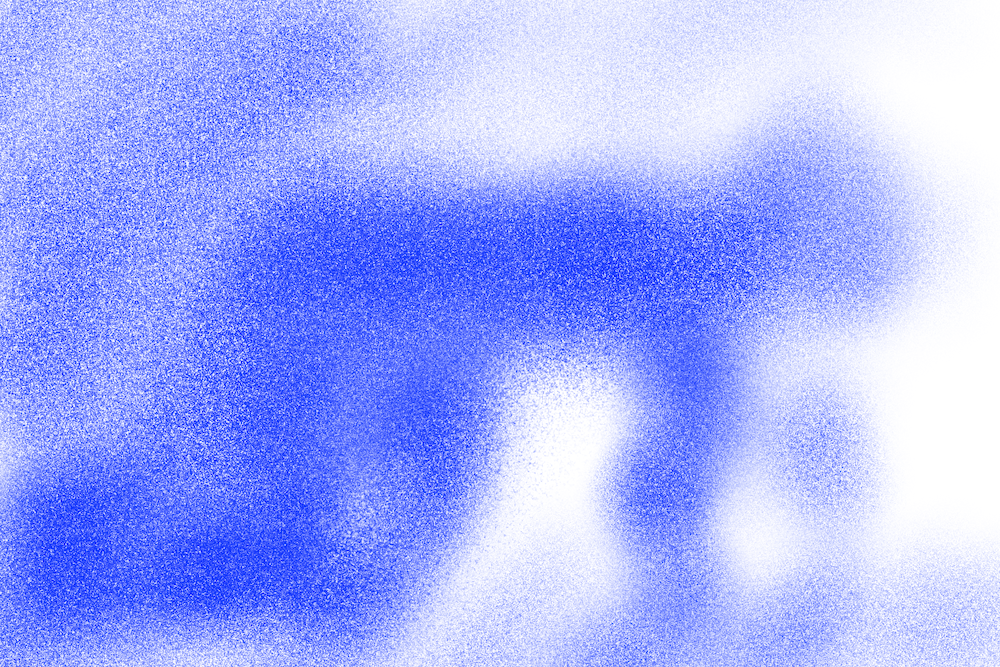
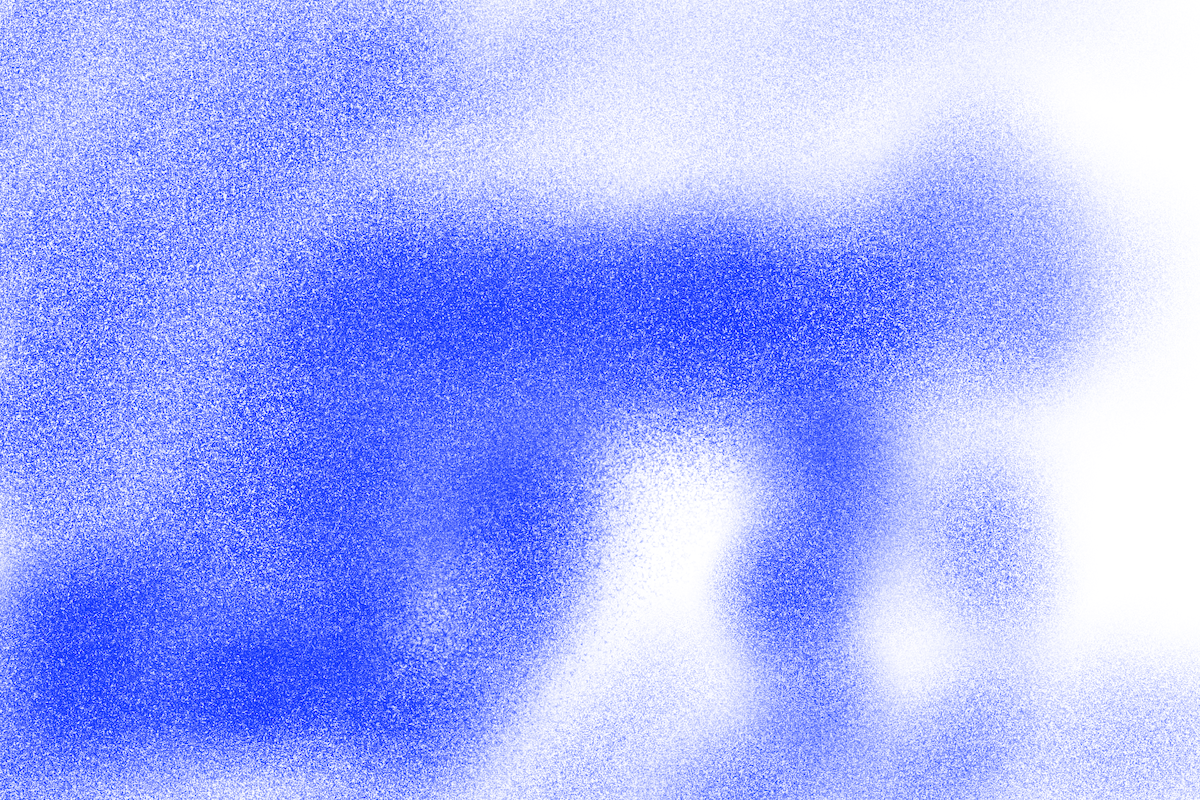
fix image + dropdown x"

diff --git a/static/css/style.css b/static/css/style.css
@@ -204,6 +204,19 @@ pufferfish's styling
     top: 5vh;
     right: 5vw;
   }
+
+  .dropDown .dropDownButton {
+    background: var(--transparent);
+    color: #fc0;
+    text-shadow: #fc0 1px 0 10px;
+    border: none;
+    font-size: 2.5rem;
+    position: absolute;
+    margin: 0 !important;
+    padding: 0 !important;
+    top: 5vh;
+    right: 5vw;
+  }
   
   .dropDown {
     margin: 0;
@@ -211,7 +224,7 @@ pufferfish's styling
     height: 100%;
     position: absolute;
     top: 0vh;
-    background-color: white;
+    /* background-color: rgb(38, 38, 126); */
     background-repeat: no-repeat;
     background-blend-mode: hard-light;
     background-size: contain, cover;
@@ -250,7 +263,7 @@ pufferfish's styling
   
   /* mouse over link */
   .dropDownItem a:hover {
-    color: darkblue;
+    color:lightblue;
   }
   
   #navContainer {
@@ -279,5 +292,10 @@ pufferfish's styling
 
   .translucent {
     background-color: #0d1b316f;
+    border-radius: 1px;
+  }
+
+  .dark-translucent {
+    background-color: #0d1b31dd;
     border-radius: 1px;
   }

diff --git a/nav.js b/nav.js
@@ -52,16 +52,16 @@ const dropDownNav =
     ${titleImgHTML()}
     <button onClick=useDropDown() class="dropDownButton"> ≡ </button>
   </div>
-  <div class="dropDown">
+  <div class="dropDown dark-translucent">
+    <button onClick=useDropDown() class="dropDownButton"> x </button>
     ${dropDownItemsHTML()}
   </div>`;
 
 let dropDownOn = false;
 
 const useDropDown = () => {
-  dropDownOn = true;
-  document.querySelector('html').style['overflow-y'] = 'hidden !important';
-  document.querySelector('#navContainer').innerHTML = dropDownNav;
+  dropDownOn = !dropDownOn;
+  renderNav();
 }
 
 const doBigNav= () => {

diff --git a/visual-noise.js b/visual-noise.js
@@ -36,7 +36,7 @@ let div = ``;
 for (const item of items) {
     let images = ``;
     for (const image of item.images) {
-        images +=`<img class=${item.imageStyling}" src=${rootFolder}${image}>`;
+        images +=`<img class=${item.imageStyling} src=${rootFolder}${image}>`;
     }
 
     div += `
